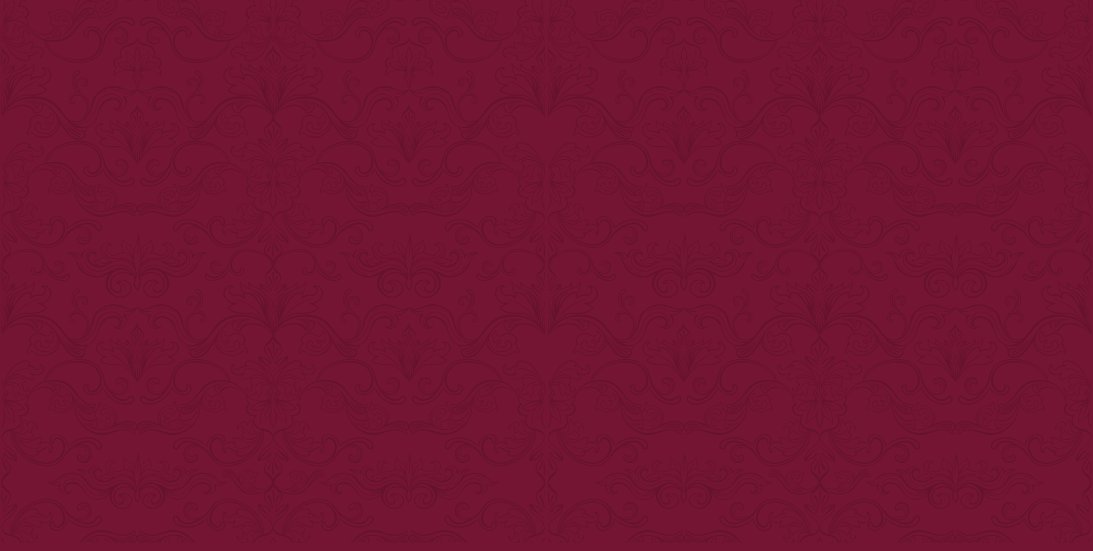
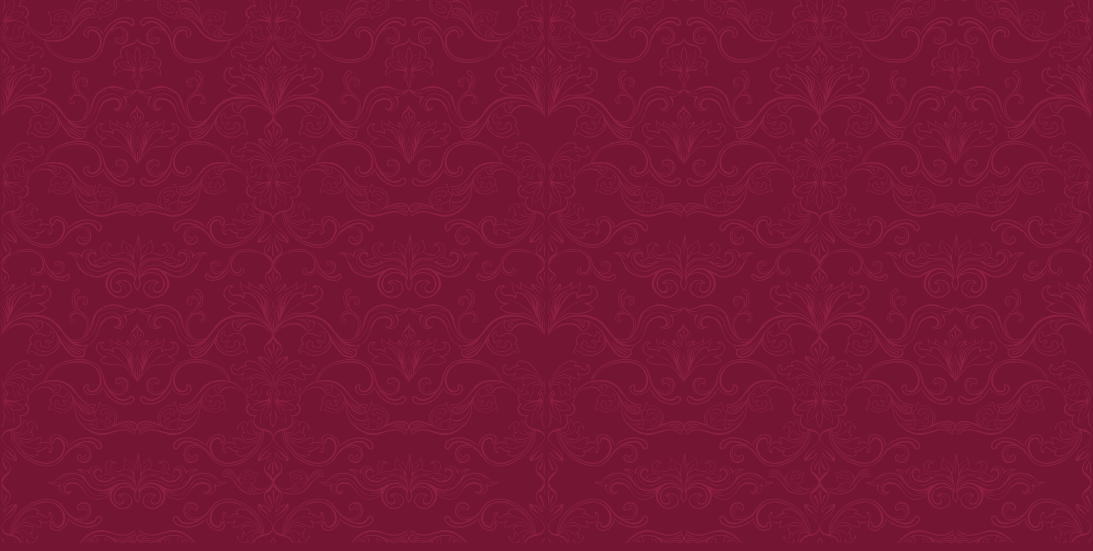
Enlarge the hall's damask and ink it in a lighter rose

diff --git a/apps/web/src/features/hall/scene/config.ts b/apps/web/src/features/hall/scene/config.ts
@@ -8,7 +8,7 @@ export const CONFIG = {
   },
 
   wallpaper: { stripePairWidth: 0.62 },
-  wall: { tileWidth: 1.8, color: '#741633' },
+  wall: { tileWidth: 4.4, color: '#741633' },
   baseboard: { height: 0.17, z: -0.45 },
   // The valance hangs from the top of the view; on short views it shrinks so it stays above clearY.
   curtain: { height: 1.25, minHeight: 0.85, clearY: 4.1, z: -0.3, bandColor: '#622331', parallax: 0.08, shadow: { opacity: 0.1, drop: 0.07 } },
